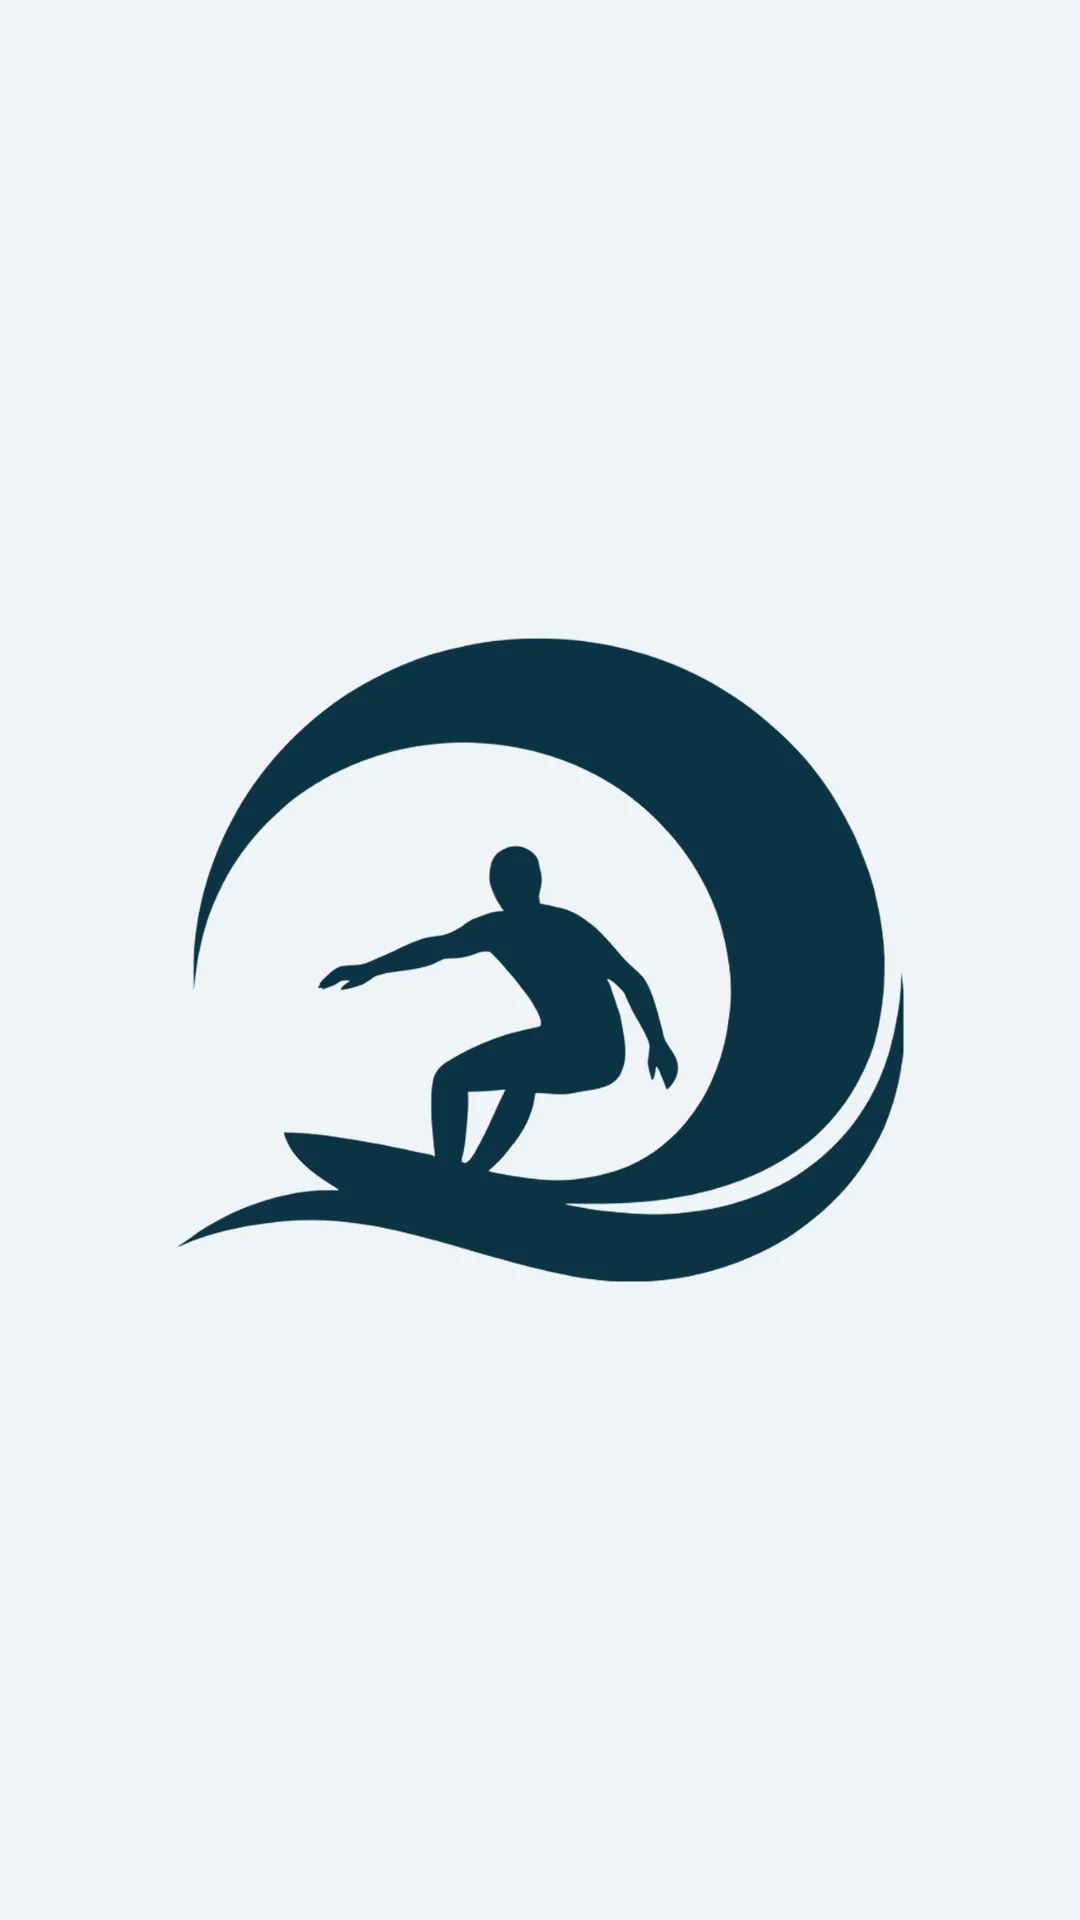
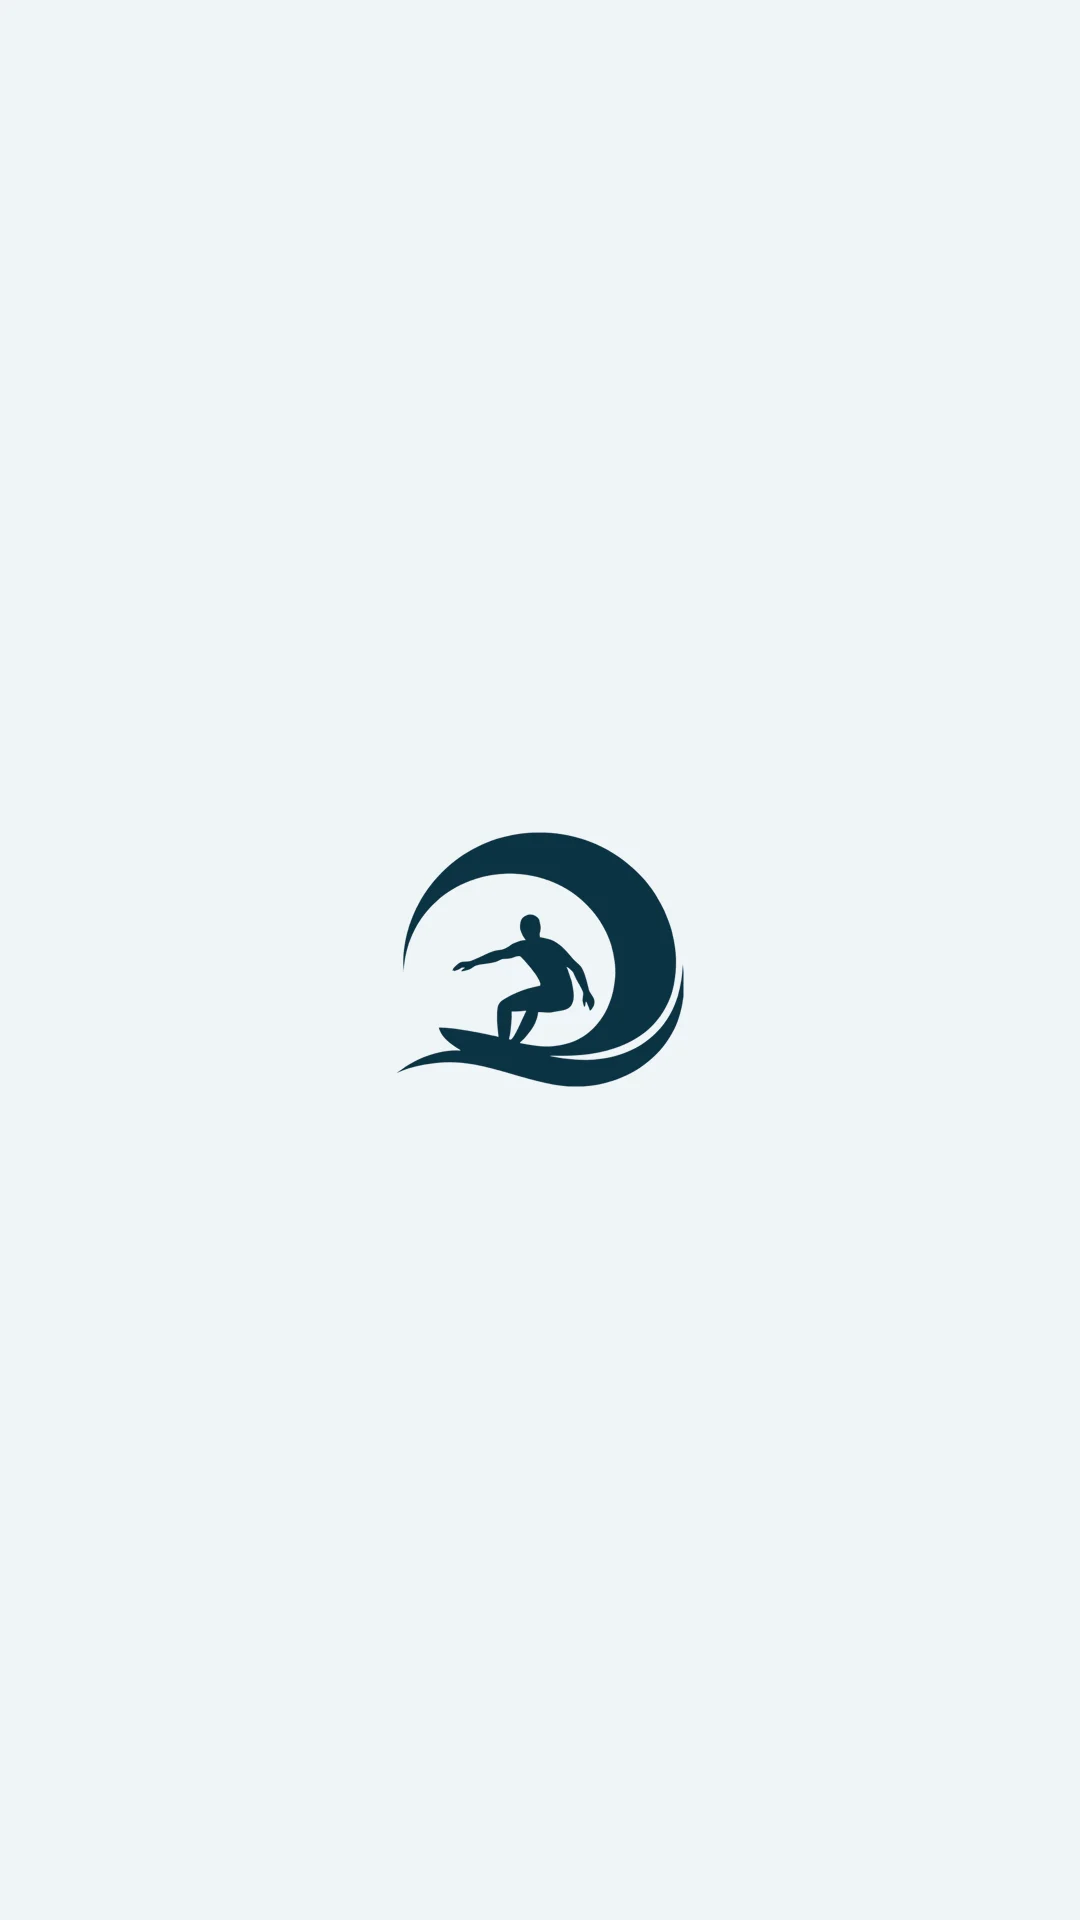
Рамка раскрытой работы по её собственным пропорциям; знак целиком в полоске
Раскрытая работа вписывалась в чужую рамку: горизонтальные обрезались,
вертикальные висели в пустых полях. Теперь рамка принимает пропорции
самой работы, поэтому кадр занимает её ровно. У видео пропорции берутся
у самого файла: обложка в ленте может быть другой формы.

В узкой полоске знак сёрфера был виден серединой. Теперь он уменьшен так,
чтобы целиком помещаться в видимую часть карточки.

Changed region(s): [[0.1833, 0.3125, 0.8556, 0.6875]]

diff --git a/assets/filmstrip.js b/assets/filmstrip.js
@@ -156,12 +156,33 @@ function createFilmstrip(works, { reduced = false } = {}) {
     soundButton.textContent = enabled ? copy.soundOff : copy.soundOn;
   }
 
+  // Пропорции работы: пока картинка не загрузилась, считаем кадр вертикальным,
+  // как большинство работ в ленте.
+  function ratioAt(index) {
+    // У видео спрашиваем его собственные пропорции: обложка в ленте может быть
+    // другой формы, как у видеовизитки с вертикальной карточкой.
+    const video = videos[index];
+    if (video && video.videoWidth) return video.videoWidth / video.videoHeight;
+    const fromGl = renderer?.ratio(index);
+    if (fromGl) return fromGl;
+    const image = images[index];
+    if (image && image.naturalWidth) return image.naturalWidth / image.naturalHeight;
+    return 9 / 16;
+  }
+
+  // В раскрытом виде рамка принимает пропорции самой работы и вписывается в
+  // отведённое поле. Так кадр виден целиком и не висит в пустых полях.
   function dimensions() {
     const mobile = width < 700;
     const smallWidth = mobile ? 34 : clamp(width * .0375, 42, 62);
     const smallHeight = mobile ? Math.min(156, height * .23) : clamp(height * .255, 145, 236);
-    const bigWidth = width * (mobile ? .78 : .495);
-    const bigHeight = mobile ? Math.min(height * .34, bigWidth * 1.05) : height * .5;
+    const first = clamp(Math.floor(position), 0, works.length - 1);
+    const next = clamp(first + 1, 0, works.length - 1);
+    const ratio = lerp(ratioAt(first), ratioAt(next), clamp(position - first, 0, 1));
+    const roomW = width * (mobile ? .86 : .62);
+    const roomH = mobile ? height * .46 : height * .74;
+    let bigWidth = roomW, bigHeight = roomW / ratio;
+    if (bigHeight > roomH) { bigHeight = roomH; bigWidth = roomH * ratio; }
     return {
       w: lerp(smallWidth, bigWidth, expansion),
       h: lerp(smallHeight, bigHeight, expansion),
@@ -282,7 +303,7 @@ function createFilmstrip(works, { reduced = false } = {}) {
     frameRail.inert = !value;
     projectCopy.setAttribute('aria-hidden', String(!value));
     hoverGoal = 0;
-    resetFit(Boolean(value));
+    resetFit();
     if (!value) {
       syncVideoPlayback(-1);
       syncSoundControl(-1);
@@ -304,20 +325,18 @@ function createFilmstrip(works, { reduced = false } = {}) {
   function close() { if (expandTo) changeScale(0); }
   function goTo(index) {
     target = clamp(index, 0, works.length - 1);
-    resetFit(Boolean(expandTo));
+    resetFit();
     wake();
   }
   // В ленте кадр заполняет карточку целиком, в раскрытом виде работа
   // показывается полностью: обрезать её по краям там незачем, а у высоких
   // кадров так терялась половина картинки.
-  function resetFit(expanded) {
-    fitGoal = expanded ? 1 : 0;
-    section.dataset.fit = expanded ? 'full' : 'crop';
+  function resetFit() {
+    fitGoal = 0;
+    section.dataset.fit = 'crop';
     if (fitButton) {
-      fitButton.setAttribute('aria-pressed', String(Boolean(expanded)));
-      fitButton.innerHTML = expanded
-        ? `${copy.restore} <span>−</span>`
-        : `${copy.examine} <span>+</span>`;
+      fitButton.setAttribute('aria-pressed', 'false');
+      fitButton.innerHTML = `${copy.examine} <span>+</span>`;
     }
   }
   function toggleFit() {
@@ -404,7 +423,7 @@ function createFilmstrip(works, { reduced = false } = {}) {
     const delta = raw * (event.deltaMode === 1 ? 16 : event.deltaMode === 2 ? width : 1);
     const layout = dimensions();
     target = clamp(target + delta * (expandTo ? 1.15 : .14) / (layout.w + layout.gap), 0, works.length - 1);
-    resetFit(Boolean(expandTo));
+    resetFit();
     clearTimeout(wheelTimer);
     if (expandTo) wheelTimer = setTimeout(() => { target = Math.round(target); wake(); }, 160);
     wake();
@@ -449,7 +468,7 @@ function createFilmstrip(works, { reduced = false } = {}) {
       const fling = reduced || event.type === 'pointercancel' ? 0 : clamp(freshVelocity * 120 / (layout.w + layout.gap), -2.8, 2.8);
       target = clamp(target - fling, 0, works.length - 1);
       if (expandTo) target = Math.round(target);
-      resetFit(Boolean(expandTo));
+      resetFit();
     }
     drag = null;
     stage.classList.remove('dragging');
@@ -571,6 +590,7 @@ function createRibbonRenderer(canvas) {
   });
   return {
     get ready() { return ready; },
+    ratio(index) { return ratios[index]; },
     upload(index, image) {
       if (!ready) return;
       const texture = gl.createTexture();

diff --git a/en/index.html b/en/index.html
@@ -93,9 +93,9 @@
     <a href="https://t.me/voidstudio_lab" target="_blank" rel="noopener">Telegram</a>
   </div>
   <dialog id="viewer"></dialog>
-  <script src="../assets/gallery-data.js?v=20"></script>
+  <script src="../assets/gallery-data.js?v=21"></script>
   <script src="../assets/gallery-data-en.js?v=6"></script>
-  <script src="../assets/filmstrip.js?v=14"></script>
+  <script src="../assets/filmstrip.js?v=16"></script>
   <script>
     const ids = selectedGalleryIds();
     const works = (ids.length ? ids : suggestedGalleryIds)

diff --git a/works.html b/works.html
@@ -49,8 +49,8 @@
   </main>
   <a class="works-back" href="/">← Главная</a>
   <dialog id="viewer"></dialog>
-  <script src="assets/gallery-data.js?v=20"></script>
-  <script src="assets/filmstrip.js?v=14"></script>
+  <script src="assets/gallery-data.js?v=21"></script>
+  <script src="assets/filmstrip.js?v=16"></script>
   <script>
     const ids = selectedGalleryIds();
     const works = (ids.length ? ids : suggestedGalleryIds)

diff --git a/index.html b/index.html
@@ -108,8 +108,8 @@
   </div>
 
   <dialog id="viewer"></dialog>
-  <script src="assets/gallery-data.js?v=20"></script>
-  <script src="assets/filmstrip.js?v=14"></script>
+  <script src="assets/gallery-data.js?v=21"></script>
+  <script src="assets/filmstrip.js?v=16"></script>
   <script>
     const ids = selectedGalleryIds();
     const works = (ids.length ? ids : suggestedGalleryIds)
